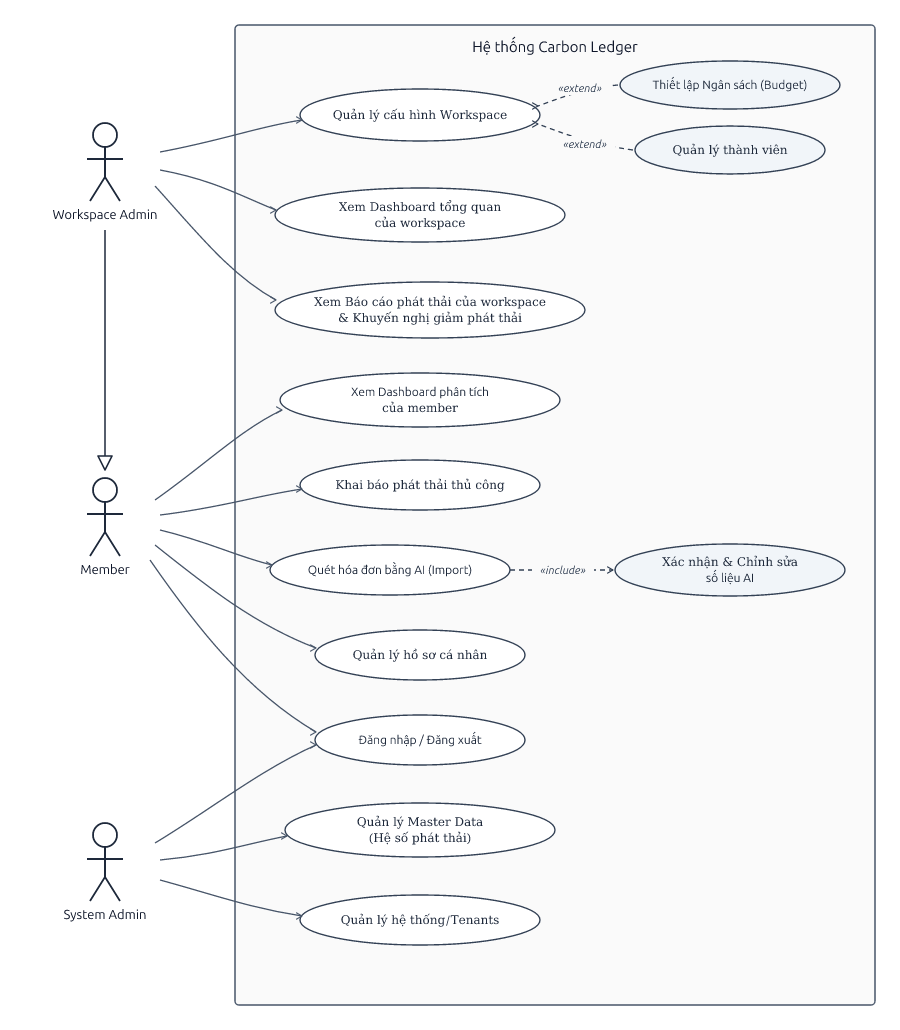
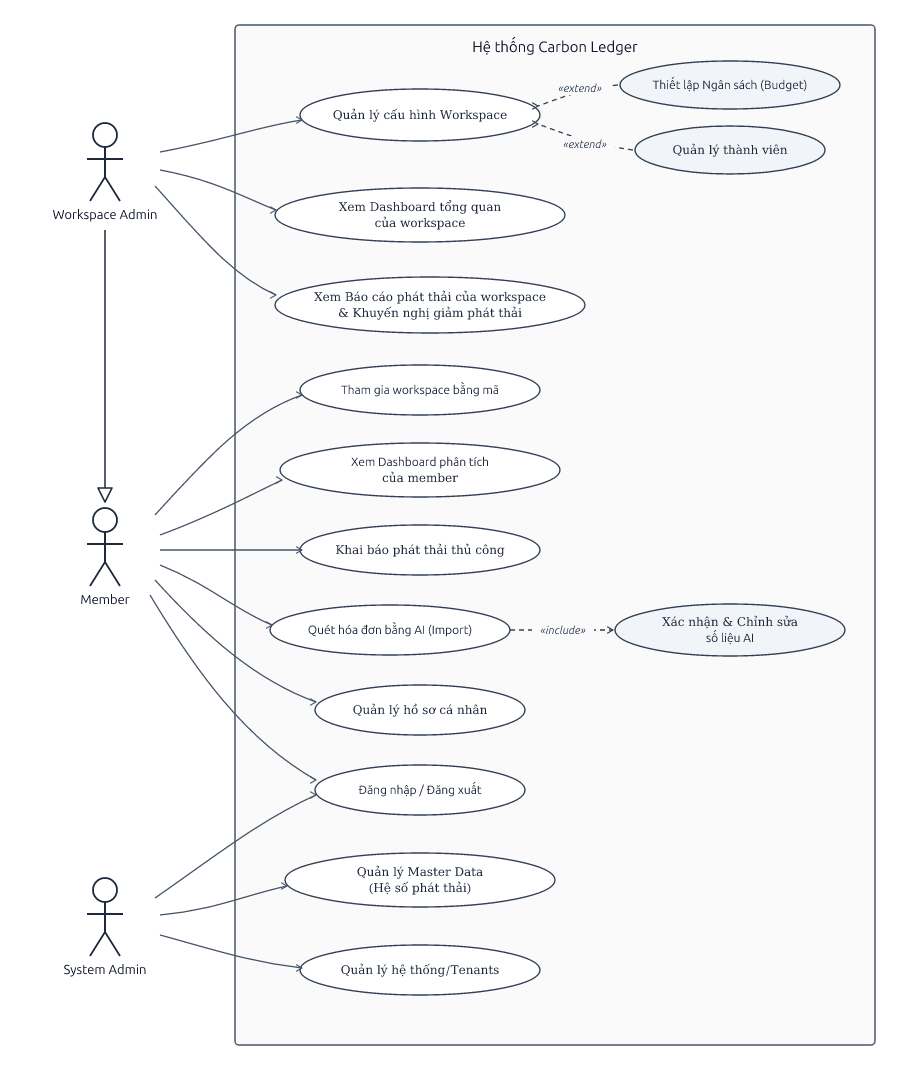
docs(ucd): add 'Tham gia workspace bằng mã' use case for workspace member
- Add 'Tham gia workspace bằng mã' (Join Workspace with Invite Code) use case for Member in UML diagram (docs/image/UCD.png)
- Update docs/03-use-cases.md with UC03B specification, role responsibilities, and Mermaid flow
- Update spec.md RBAC matrix, Mermaid diagram, and Use Case catalog
- Update README.md UCD notes and RBAC matrix

diff --git a/docs/03-use-cases.md b/docs/03-use-cases.md
@@ -12,7 +12,7 @@
 | Tác nhân (Actor) | Tên vai trò | Trách nhiệm trong các luồng hoạt động |
 |---|---|---|
 | **Trưởng nhóm (Reviewer)** | Workspace Admin / Reviewer | **Luồng 1:** Tạo Workspace, cấu hình Workspace (khai báo thông số nền $m^2$, số nhân khẩu; quản lý thành viên và thiết lập ngân sách tháng theo cơ chế `<<extend>>`).<br>**Luồng 2:** Nạp dữ liệu (tự động duyệt) hoặc phê duyệt (`Accept` / `Reject`) các request nạp dữ liệu từ Editor.<br>**Luồng 3:** Xem **Dashboard tổng quan của Workspace**, theo dõi tiến độ ngân sách, nhận notification cảnh báo 85% & 100%.<br>**Luồng 4:** **Độc quyền** tiếp nhận báo cáo phát thải định kỳ từ Cronjob, xem báo cáo phát thải của Workspace và khuyến nghị giảm phát thải AI, xuất Kế hoạch cắt giảm ra file PDF. |
-| **Thành viên (Editor)** | Workspace Member / Editor | **Luồng 2:** Thực hiện nạp dữ liệu phát thải qua 3 phương thức (Thủ công, Quét ảnh hóa đơn/công tơ bằng AI, Import file mẫu Excel) ở trạng thái **`Draft / Chờ duyệt`**.<br>**Luồng 3:** **Chỉ có quyền xem Dashboard phân tích của cá nhân Member đó**, nhận notification cảnh báo ngưỡng 85% của Workspace (không có quyền xem Dashboard tổng quan Workspace).<br>**Luồng 4:** **Không có quyền** xem báo cáo phát thải và khuyến nghị xanh của Workspace.<br>**Lịch sử:** Theo dõi tiến độ duyệt các yêu cầu cá nhân đã gửi. |
+| **Thành viên (Editor)** | Workspace Member / Editor | **Luồng 1:** Nhập mã mời để gửi Yêu cầu gia nhập (**Tham gia workspace bằng mã**) ở trạng thái PENDING chờ Admin phê duyệt.<br>**Luồng 2:** Thực hiện nạp dữ liệu phát thải qua 3 phương thức (Thủ công, Quét ảnh hóa đơn/công tơ bằng AI, Import file mẫu Excel) ở trạng thái **`Draft / Chờ duyệt`**.<br>**Luồng 3:** **Chỉ có quyền xem Dashboard phân tích của cá nhân Member đó**, nhận notification cảnh báo ngưỡng 85% của Workspace (không có quyền xem Dashboard tổng quan Workspace).<br>**Luồng 4:** **Không có quyền** xem báo cáo phát thải và khuyến nghị xanh của Workspace.<br>**Lịch sử:** Theo dõi tiến độ duyệt các yêu cầu cá nhân đã gửi. |
 | **Quản trị viên Hệ thống (System Admin)** | System Admin | Quản trị độc lập danh mục và giá trị các **Hệ số phát thải quy chuẩn (Standard Emission Factors)** phục vụ công thức nhân tự động của Backend khi giao dịch được ghi sổ; quản trị cấu hình Workspace/Tenants trên toàn hệ thống. |
 
 ---
@@ -25,6 +25,7 @@
 *Sơ đồ thể hiện 3 tác nhân chính (`Workspace Admin`, `Member`, `System Admin`), quan hệ kế thừa (Generalization) giữa Workspace Admin và Member, quan hệ mở rộng `<<extend>>` (với Workspace Admin, Quản lý thành viên và Thiết lập ngân sách là `<<extend>>` của Quản lý cấu hình Workspace, không tách rời thành các use case riêng), cùng quan hệ phụ thuộc `<<include>>` trong việc quét và xác nhận dữ liệu AI qua popup xem trước.*
 
 *Đặc biệt về quy tắc phân quyền:*
+- **Tham gia Workspace:** Thành viên (Member) có Use Case **`Tham gia workspace bằng mã`** để nhập mã mời và gửi yêu cầu gia nhập (Join Request) vào Không gian làm việc.
 - **Báo cáo phát thải & Khuyến nghị:** Thành viên (Member) **không có quyền** xem báo cáo phát thải và khuyến nghị xanh; **chỉ Workspace Admin** mới có quyền xem báo cáo phát thải của Workspace và khuyến nghị giảm phát thải.
 - **Cấu hình Workspace:** Quản lý thành viên và Thiết lập ngân sách là phần mở rộng (`<<extend>>`) của Quản lý cấu hình Workspace, không tách rời làm các use case riêng biệt từ Actor.
 - **Dashboard:** Member **chỉ có quyền xem Dashboard phân tích của member đó**, **chỉ Workspace Admin** mới có quyền xem Dashboard tổng quan của Workspace.
@@ -43,6 +44,7 @@ flowchart LR
         UC01["UC01: Khởi tạo & Cấu hình Workspace"]
         UC02["UC02: Khai báo Thông số nền (m², Số người)"]
         UC03["UC03: Mời & Quản lý Thành viên"]
+        UC03B["UC03B: Tham gia Workspace bằng mã"]
         UC09["UC09: Thiết lập Ngân sách Tháng & Ngưỡng 85%"]
         UC03 -.->|«extend»| UC01
         UC09 -.->|«extend»| UC01
@@ -84,6 +86,7 @@ flowchart LR
     Reviewer --> UC11
 
     %% Editor
+    Editor --> UC03B
     Editor --> UC04
     Editor --> UC05
     Editor --> UC06
@@ -137,18 +140,27 @@ flowchart LR
 
 ---
 
-### UC03: Mời & Phê duyệt Thành viên Gia nhập (Member Invitation & Join Approval)
-- **Mã Use Case:** UC03
+### UC03: Mời & Quản lý Thành viên (Member Management)
+- **Mã Use Case:** UC03 (gồm UC03A & UC03B)
+- **Mối quan hệ Use Case:** 
+  - `UC03A` là phần mở rộng (`<<extend>>`) của `UC01: Khởi tạo & Cấu hình Workspace`, không tách rời làm use case độc lập từ phía Workspace Admin.
+  - `UC03B` là Use Case trực tiếp của **Thành viên (Member)**.
+
+#### UC03A: Quản lý Thành viên & Phê duyệt Gia nhập (Admin Flow)
 - **Tác nhân chính:** Trưởng nhóm (Reviewer / Workspace Admin)
-- **Tác nhân phụ:** Người dùng xin gia nhập (Editor / Member)
-- **Mối quan hệ Use Case:** Là phần mở rộng (`<<extend>>`) của `UC01: Khởi tạo & Cấu hình Workspace`, không tách rời làm use case độc lập từ phía Workspace Admin.
-- **Mô tả vắn tắt:** Reviewer sinh mã mời 6 ký tự; người dùng nhập mã mời để gửi Yêu cầu gia nhập (Join Request) ở trạng thái chờ duyệt (PENDING); Reviewer xem xét phê duyệt (Accept) để thêm vào Workspace hoặc từ chối (Reject), đảm bảo an toàn tuyệt đối cho dữ liệu gia đình/văn phòng.
-- **Tiền điều kiện:** Workspace đã được khởi tạo; người dùng xin gia nhập đã có tài khoản trên hệ thống.
-- **Hậu điều kiện:** Người dùng được thêm vào bảng `workspace_members` với vai trò `Editor` chỉ khi Reviewer chấp thuận.
+- **Mô tả vắn tắt:** Reviewer sinh mã mời 6 ký tự, theo dõi danh sách thành viên và xem xét phê duyệt (Accept) hoặc từ chối (Reject) các yêu cầu gia nhập từ người dùng.
+- **Tiền điều kiện:** Workspace đã được khởi tạo.
+- **Hậu điều kiện:** Thành viên được duyệt sẽ nhận vai trò `Editor`.
+
+#### UC03B: Tham gia Workspace bằng mã (Member Flow)
+- **Tác nhân chính:** Thành viên (Editor / Member)
+- **Mô tả vắn tắt:** Thành viên nhập mã mời 6 ký tự (ví dụ: `CARB26`) tại màn hình Tham gia Không gian làm việc để gửi Yêu cầu gia nhập (`Join Request`) ở trạng thái chờ duyệt (`PENDING`).
+- **Tiền điều kiện:** Người dùng đã có tài khoản trên hệ thống và có mã mời hợp lệ do Trưởng nhóm cung cấp.
+- **Hậu điều kiện:** Yêu cầu được ghi vào bảng `workspace_join_requests` với trạng thái `PENDING` và hiển thị thông báo chờ Trưởng nhóm phê duyệt.
 - **Luồng sự kiện chính:**
   1. Reviewer vào mục "Quản lý Thành viên" và nhấn "Tạo mã mời".
-  2. Hệ thống sinh mã ngẫu nhiên 6 ký tự (ví dụ: `CARB26`) hiệu lực 7 ngày và lưu vào `workspaces.invite_code`.
-  3. Người dùng đăng nhập tài khoản của mình, vào màn hình "Tham gia Workspace", nhập mã mời và nhấn "Gửi yêu cầu".
+  2. Hệ thống sinh mã ngẫu nhiên 6 ký tự hiệu lực 7 ngày và lưu vào `workspaces.invite_code`.
+  3. Member đăng nhập tài khoản của mình, vào màn hình "Tham gia Workspace", nhập mã mời và nhấn "Gửi yêu cầu".
   4. Hệ thống kiểm tra mã mời hợp lệ, tạo bản ghi trong bảng `workspace_join_requests` với trạng thái `PENDING` và hiển thị thông báo chờ phê duyệt.
   5. Reviewer vào danh sách "Yêu cầu chờ duyệt", xem thông tin người xin gia nhập (Tên, Email) và nhấn "Chấp thuận (Accept)".
   6. Hệ thống cập nhật yêu cầu sang `APPROVED`, tự động liên kết người dùng vào Workspace với vai trò `Editor` và gửi thông báo thành công.

diff --git a/README.md b/README.md
@@ -147,6 +147,7 @@ Hệ thống được mô hình hóa theo chuẩn UML với 3 tác nhân chính 
 _Ghi chú quan hệ trên sơ đồ:_
 
 - **Quan hệ Kế thừa (Generalization):** `Workspace Admin` kế thừa các Use Case của `Member` (khai báo phát thải thủ công, quét hóa đơn bằng AI, đăng nhập/đăng xuất, quản lý hồ sơ cá nhân, xem dashboard phân tích cá nhân).
+- **Tham gia Workspace:** `Member` có Use Case **`Tham gia workspace bằng mã`** để nhập mã mời 6 ký tự và gửi yêu cầu gia nhập (Join Request) vào Không gian làm việc.
 - **Quan hệ Mở rộng (`<<extend>>`):** Với `Workspace Admin`, `Quản lý thành viên` và `Thiết lập Ngân sách (Budget)` đóng vai trò là các phần mở rộng (`<<extend>>`) của `Quản lý cấu hình Workspace`, không tách rời ra làm các Use Case riêng biệt.
 - **Quan hệ Phụ thuộc (`<<include>>`):** Use Case `Quét hóa đơn bằng AI (Import)` bắt buộc bao gồm (`<<include>>`) bước `Xác nhận & Chỉnh sửa số liệu AI` qua Popup xem trước trước khi ghi dữ liệu.
 - **Phân định Quyền Báo cáo & Khuyến nghị:** `Member` **không có quyền** xem báo cáo phát thải và khuyến nghị xanh; **chỉ Workspace Admin** mới có quyền xem báo cáo phát thải của Workspace và khuyến nghị giảm phát thải từ AI.
@@ -163,6 +164,7 @@ Hệ thống phân định 3 vai trò rõ ràng, kết hợp mô hình Multi-ten
    - **Quyền Reviewer:** Phê duyệt (`Accept`) hoặc từ chối (`Reject` kèm lý do) các request phát thải từ thành viên.
    - **Độc quyền Giám sát & Báo cáo:** Xem Dashboard tổng quan của Workspace, tiếp nhận báo cáo phát thải của Workspace và khuyến nghị giảm phát thải AI, xuất Kế hoạch cắt giảm (Reduction Plan) ra file PDF.
 2. **Thành viên gia đình / Văn phòng (Editor / Workspace Member):**
+   - **Gia nhập:** Nhập mã mời để gửi yêu cầu gia nhập (**Tham gia workspace bằng mã**) chờ Reviewer phê duyệt.
    - Khai báo hoạt động phát thải qua 3 phương thức (Thủ công, Quét AI, File Excel); mọi bản ghi lưu ở trạng thái **`Draft / Chờ duyệt (Pending Review)`**.
    - **Chỉ có quyền xem Dashboard phân tích của cá nhân member đó** (theo dõi tiến độ cá nhân, nhận notification cảnh báo ngưỡng 85% của Workspace); **không có quyền xem Dashboard tổng quan Workspace** và **không có quyền xem báo cáo phát thải & khuyến nghị xanh**.
 3. **Quản trị viên Hệ thống (System Admin):**
@@ -175,6 +177,7 @@ Hệ thống phân định 3 vai trò rõ ràng, kết hợp mô hình Multi-ten
 | ----------------------------------------------------------------------------- | :----------: | :--------------------: | :-------------------: |
 | Khởi tạo & Cấu hình Workspace (Base Use Case)                                 |      ✅      |           ✅           |          ❌           |
 | Mời & Quản lý thành viên (`<<extend>>` Cấu hình Workspace)                    |      ❌      |           ✅           |          ❌           |
+| Tham gia Workspace bằng mã mời (Join Workspace)                               |      ❌      |           ❌           |          ✅           |
 | Thiết lập Ngân sách tháng & Ngưỡng 85% (`<<extend>>` Cấu hình Workspace)      |      ❌      |           ✅           |          ❌           |
 | Khai báo thông số nền (thành viên, diện tích $m^2$)                           |      ❌      |           ✅           |          ❌           |
 | Xem Dashboard tổng quan của Workspace                                         |      ❌      |     ✅ (Toàn diện)     |     ❌ (Chặn 403)     |

diff --git a/spec.md b/spec.md
@@ -184,7 +184,8 @@ flowchart LR
     subgraph WorkspaceMgmt["1. Khởi tạo & Cấu hình Workspace"]
         UC01["UC01: Khởi tạo & Cấu hình Workspace"]
         UC02["UC02: Khai báo Thông số nền (m², Số người)"]
-        UC03["UC03: Mời & Quản lý Thành viên"]
+        UC03["UC03A: Mời & Quản lý Thành viên"]
+        UC03B["UC03B: Tham gia Workspace bằng mã"]
         UC09["UC09: Thiết lập Ngân sách Tháng"]
         UC03 -.->|«extend»| UC01
         UC09 -.->|«extend»| UC01
@@ -226,6 +227,7 @@ flowchart LR
     Reviewer --> UC11
 
     %% Editor
+    Editor --> UC03B
     Editor --> UC04
     Editor --> UC05
     Editor --> UC06
@@ -244,7 +246,8 @@ flowchart LR
 |---|---|---|---|
 | **UC01** | Khởi tạo & Cấu hình Workspace | Trưởng nhóm (Reviewer), System Admin | **Base Use Case:** Tạo và cấu hình không gian dữ liệu riêng biệt cho gia đình/văn phòng. |
 | **UC02** | Khai báo Thông số nền | Trưởng nhóm (Reviewer) | Nhập số người, diện tích $m^2$ để tính chỉ số $\text{CO}_2\text{e}/\text{người}$, $/m^2$. |
-| **UC03** | Mời & Quản lý Thành viên | Trưởng nhóm (Reviewer) | **`<<extend>> UC01`:** Sinh mã mời, kiểm duyệt Yêu cầu gia nhập; là extend của Cấu hình Workspace. |
+| **UC03A** | Quản lý & Phê duyệt Thành viên | Trưởng nhóm (Reviewer) | **`<<extend>> UC01`:** Sinh mã mời, kiểm duyệt Yêu cầu gia nhập; là extend của Cấu hình Workspace. |
+| **UC03B** | Tham gia Workspace bằng mã | Thành viên (Editor / Member) | Nhập mã mời 6 ký tự gửi Yêu cầu gia nhập (Join Request) chờ duyệt. |
 | **UC04** | Khai báo phát thải thủ công | Thành viên (Editor), Reviewer | Nhập sinh hoạt lẻ (xe máy, gas, điện) tạo Draft / Approved. |
 | **UC05** | Quét hóa đơn / công tơ bằng AI | Thành viên (Editor), Reviewer | Dùng Multimodal AI bóc tách ảnh; `<<include>>` Xác nhận & Chỉnh sửa số liệu AI. |
 | **UC06** | Nạp dữ liệu qua File mẫu Excel | Thành viên (Editor), Reviewer | Upload Excel template, preview ánh xạ dữ liệu và lưu hàng loạt. |
